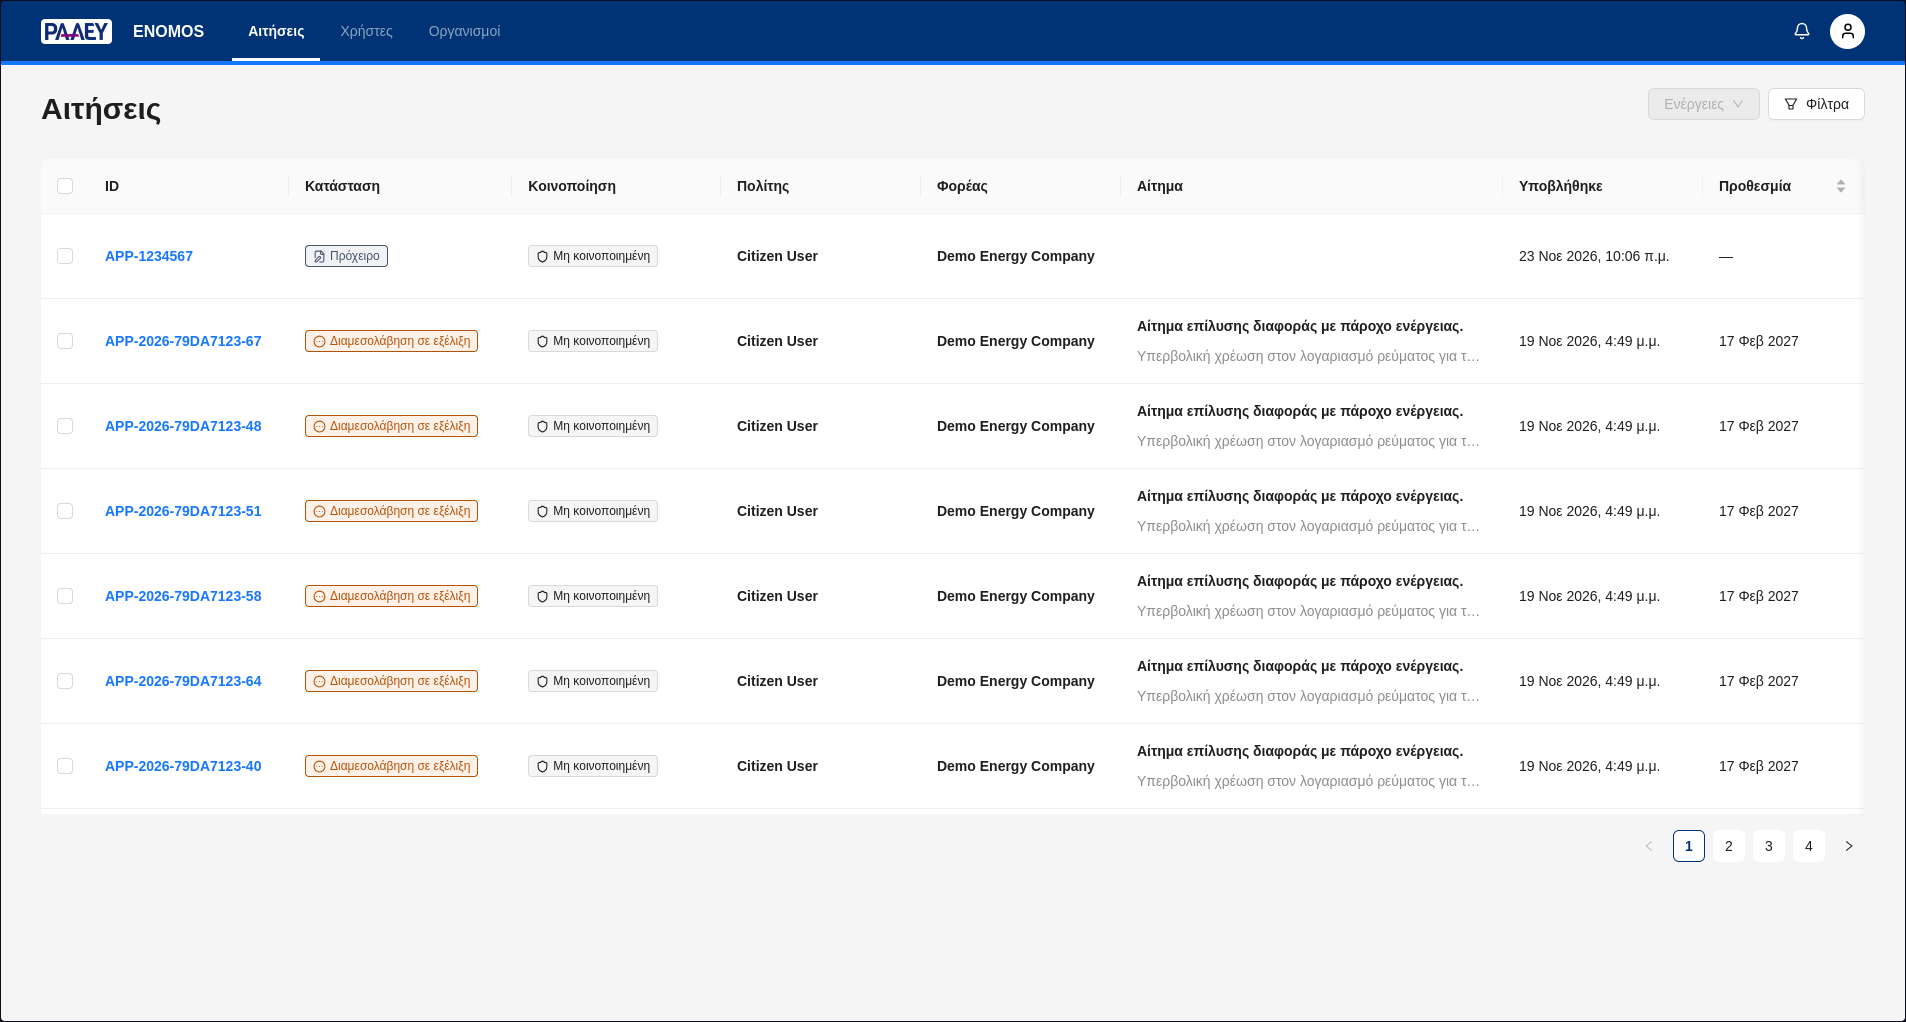
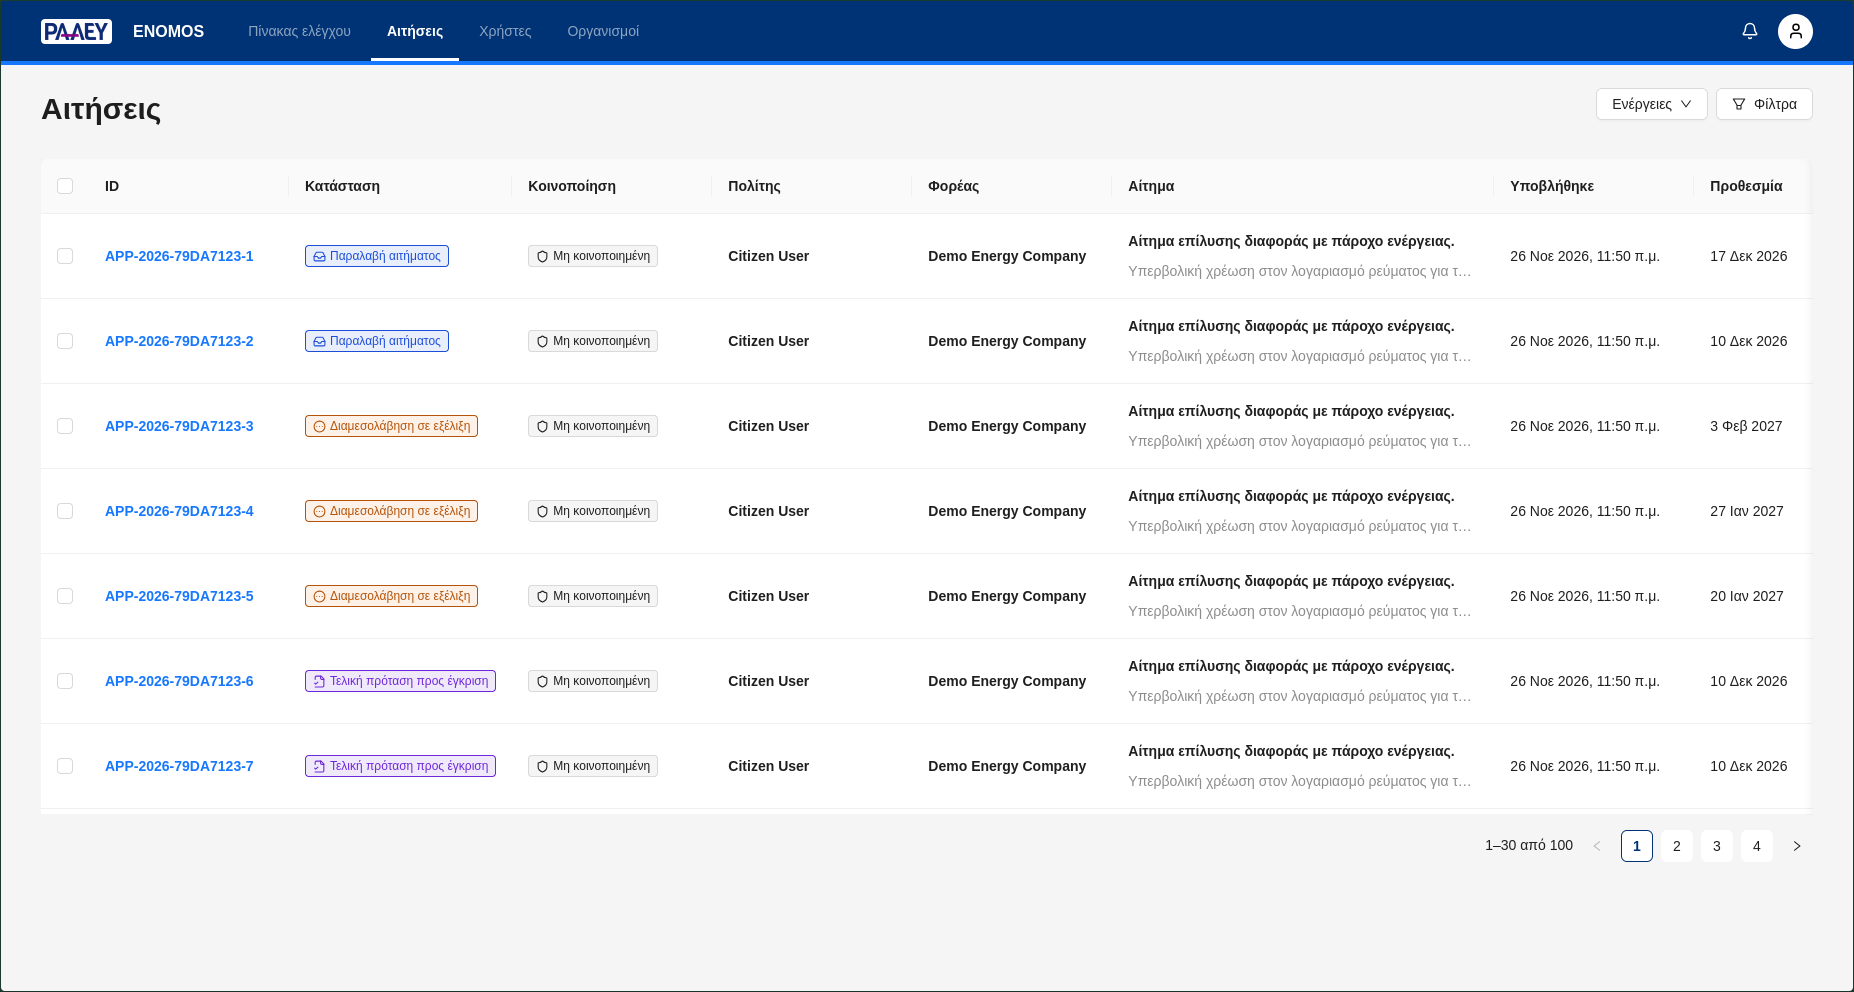
Update for v1.5.1

diff --git a/docs/applications.md b/docs/applications.md
@@ -28,13 +28,15 @@
 | **Προθεσμία** | Η τρέχουσα [προθεσμία](#deadlines) της αίτησης. Οι εκπρόθεσμες αιτήσεις εμφανίζονται με **κόκκινο**. |
 | **Τελευταία ενημέρωση** | Η ημερομηνία της τελευταίας αλλαγής στην αίτηση. |
 
+Κάτω από τον πίνακα εμφανίζεται το **πλήθος** των αιτήσεων που ταιριάζουν στα [φίλτρα](#filters) (π.χ. **1–30 από 85**).
+
 ![Λίστα αιτήσεων](assets/images/applications/applications-list.png)
 
 !!! tip
 
     Πατήστε την επικεφαλίδα της στήλης **Προθεσμία** για να ταξινομήσετε τις αιτήσεις με βάση την προθεσμία τους.
 
-## Φίλτρα
+## Φίλτρα { #filters }
 
 Οι επιλογές φίλτρων βρίσκονται πάνω δεξιά από τον πίνακα. Μπορείτε να φιλτράρετε τις αιτήσεις με βάση:
 
@@ -49,13 +51,15 @@
 
 Μπορείτε να εφαρμόσετε μια ενέργεια σε πολλές αιτήσεις μαζί:
 
-1. Επιλέξτε τις αιτήσεις από το **κουτάκι** αριστερά κάθε γραμμής του [πίνακα αιτήσεων](#list).
+1. Επιλέξτε τις αιτήσεις από το **κουτάκι** αριστερά κάθε γραμμής του [πίνακα αιτήσεων](#list). Η **Εξαγωγή csv όλων των αποτελεσμάτων** δεν χρειάζεται επιλογή.
 2. Πατήστε το κουμπί **Ενέργειες** πάνω δεξιά από τον πίνακα.
 3. Επιλέξτε μία από τις παρακάτω ενέργειες και επιβεβαιώστε:
 
 | Ενέργεια | Περιγραφή |
 |----------|-----------|
 | **Εξαγωγή** | [Εξάγει](#export) τις επιλεγμένες αιτήσεις. |
+| **Εξαγωγή csv** | [Εξάγει σε CSV](#export-csv) τις επιλεγμένες αιτήσεις. |
+| **Εξαγωγή csv όλων των αποτελεσμάτων** | [Εξάγει σε CSV](#export-csv) **όλες** τις αιτήσεις που ταιριάζουν στα [φίλτρα](#filters), σε όλες τις σελίδες του πίνακα. |
 | **Κοινοποίηση στον φορέα** | Διαμοιράζει με τον φορέα τους τις επιλεγμένες αιτήσεις που δεν είναι ήδη κοινοποιημένες. |
 | **Διακοπή κοινοποίησης** | Σταματά τον διαμοιρασμό των επιλεγμένων αιτήσεων που είναι κοινοποιημένες. |
 | **Απόρριψη** | Απορρίπτει τις επιλεγμένες αιτήσεις που βρίσκονται σε εξέλιξη. Οι αιτήσεις περνούν σε **Απόρριψη αιτήματος**. |
@@ -258,6 +262,24 @@
 !!! warning
 
     Ο σύνδεσμος λήψης λειτουργεί **μία φορά** και λήγει σε **24 ώρες**. Μπορείτε να εξαγάγετε έως **100 αιτήσεις** τη φορά.
+
+#### Εξαγωγή σε CSV { #export-csv }
+
+Από τις [μαζικές ενέργειες](#bulk-actions) μπορείτε να εξαγάγετε τις αιτήσεις σε ένα υπολογιστικό φύλλο **CSV**, με μία γραμμή για κάθε αίτηση. Το αρχείο ανοίγει απευθείας στο Excel και περιέχει τις στήλες:
+
+- **Α/Α**
+- **Αριθ. αιτήματος (MyRAE)**
+- **Παραλήπτης**: ο φορέας της αίτησης.
+- **Αίτημα καταναλωτή** και **Λόγοι**
+- **Κατάσταση**
+- **Υποβολή**, **Παραλαβή** και **Προθεσμία**
+- **Νομικός συνεργάτης**
+
+Όπως και η [εξαγωγή](#export), γίνεται στο παρασκήνιο: όταν ολοκληρωθεί, λαμβάνετε [ειδοποίηση](settings.md#notifications) και **email** με τον σύνδεσμο λήψης, που λειτουργεί **μία φορά** και λήγει σε **24 ώρες**.
+
+!!! tip
+
+    Η **Εξαγωγή csv όλων των αποτελεσμάτων** δεν έχει όριο αιτήσεων: εξάγει όλες τις αιτήσεις των [φίλτρων](#filters) σας, ακόμη κι αν ο πίνακας τις εμφανίζει σε πολλές σελίδες.
 
 ### Συνομιλίες
 

diff --git a/docs/dashboard.md b/docs/dashboard.md
@@ -1,0 +1,50 @@
+# Πίνακας ελέγχου
+
+Ο **Πίνακας ελέγχου** συγκεντρώνει τα στατιστικά των αιτήσεων διαμεσολάβησης των τομέων σας. Είναι η πρώτη σελίδα που βλέπετε μετά τη [σύνδεση](access.md).
+
+!!! info
+
+    Η σελίδα είναι διαθέσιμη μόνο στους **διαχειριστές**. Τα στατιστικά αφορούν τις αιτήσεις των τομέων σας, τις ίδιες που βλέπετε στη [λίστα αιτήσεων](applications.md#list).
+
+![Πίνακας ελέγχου](assets/images/dashboard/dashboard.png)
+
+## Αιτήσεις ανά κατάσταση { #statistics }
+
+Στο πάνω μέρος της σελίδας, η καρτέλα **Αιτήσεις** εμφανίζει πόσες αιτήσεις βρίσκονται σε κάθε [κατάσταση](applications.md#statuses).
+
+## Φίλτρα { #filters }
+
+Το κουμπί **Φίλτρα** βρίσκεται πάνω δεξιά. Επιλέξτε ένα **Εύρος ημερομηνιών** για να δείτε τα στατιστικά μόνο για τις αιτήσεις που **υποβλήθηκαν** μέσα σε αυτό. Το φίλτρο εφαρμόζεται σε όλα τα στατιστικά και τα γραφήματα της σελίδας.
+
+Για να δείτε ξανά όλες τις αιτήσεις, πατήστε **Καθαρισμός φίλτρων**.
+
+![Φίλτρα πίνακα ελέγχου](assets/images/dashboard/dashboard-filters.png)
+
+## Γραφήματα { #charts }
+
+Κάτω από τα στατιστικά βρίσκονται τα παρακάτω γραφήματα:
+
+| Γράφημα | Τι δείχνει |
+|---------|------------|
+| **Αιτήσεις ανά κατάσταση** | Το πλήθος των αιτήσεων σε κάθε [κατάσταση](applications.md#statuses). |
+| **Ανά διάρκεια αιτημάτων σε εκκρεμότητα** | Τις αιτήσεις που βρίσκονται σε εξέλιξη (**Παραλαβή αιτήματος**, **Διαμεσολάβηση σε εξέλιξη**, **Τελική πρόταση προς έγκριση**), ανάλογα με το πόσος καιρός πέρασε από την **παραλαβή** τους: **έως 2 εβδομάδες**, **από 3 έως 4 εβδομάδες** ή **περισσότερο από ένα μήνα**. |
+| **Αιτήσεις ανά οργανισμό** | Τους **10 οργανισμούς** με τις περισσότερες αιτήσεις, με χρώμα για κάθε κατάσταση. Οι υπόλοιποι οργανισμοί συγκεντρώνονται στη γκρι μπάρα **Λοιποί**, με το πλήθος τους σε παρένθεση. |
+
+!!! tip
+
+    Περάστε τον δείκτη του ποντικιού πάνω από μια μπάρα ή ένα τμήμα για να δείτε το ακριβές πλήθος.
+
+![Γράφημα αιτήσεων ανά οργανισμό](assets/images/dashboard/dashboard-chart-organisations.png)
+
+## Εξαγωγή γραφήματος { #export }
+
+Κάθε γράφημα έχει πάνω δεξιά το κουμπί **Ενέργειες**, με τις παρακάτω επιλογές:
+
+| Ενέργεια | Περιγραφή |
+|----------|-----------|
+| **Εξαγωγή εικόνας** | Κατεβάζει το γράφημα ως εικόνα **PNG**. |
+| **Εξαγωγή csv** | Κατεβάζει τα δεδομένα του γραφήματος ως υπολογιστικό φύλλο **CSV**. Στο γράφημα ανά οργανισμό, το αρχείο περιέχει **όλους** τους οργανισμούς, με μία στήλη για κάθε κατάσταση. |
+
+Η λήψη γίνεται αμέσως και περιλαμβάνει μόνο τις αιτήσεις των [φίλτρων](#filters) που έχετε επιλέξει.
+
+![Ενέργειες γραφήματος](assets/images/dashboard/dashboard-chart-actions.png)

diff --git a/docs/index.md b/docs/index.md
@@ -11,6 +11,7 @@
 Στο εγχειρίδιο περιγράφονται τα παρακάτω:
 
 - **[Πρόσβαση](access.md)**: σύνδεση στην πλατφόρμα και επαναφορά κωδικού.
+- **[Πίνακας ελέγχου](dashboard.md)**: στατιστικά και γραφήματα των αιτήσεων (μόνο για διαχειριστές).
 - **[Αιτήσεις](applications.md)**: λίστα και καταστάσεις αιτήσεων, ορισμός νομικού συνεργάτη και συνομιλία με τον Ενόμο.
 - **[Χρήστες](users.md)**: προσθήκη, επεξεργασία και απενεργοποίηση των χρηστών του φορέα (μόνο για διαχειριστές οργανισμού).
 - **[Ρυθμίσεις](settings.md)**: μενού χρήστη, γλώσσα και ειδοποιήσεις.

diff --git a/docs/organisations.md b/docs/organisations.md
@@ -15,6 +15,8 @@
 | **Οργανισμός** | Η επωνυμία του οργανισμού. |
 | **Τομείς** | Οι [τομείς](users.md#domains) στους οποίους δραστηριοποιείται ο οργανισμός (**Ύδατα**, **Απόβλητα**, **Ενέργεια**). |
 
+Κάτω από τον πίνακα εμφανίζεται το **πλήθος** των οργανισμών που ταιριάζουν στα φίλτρα (π.χ. **1–30 από 85**).
+
 ![Λίστα οργανισμών](assets/images/organisations/organisations-list.png)
 
 ## Φίλτρα

diff --git a/docs/holidays.md b/docs/holidays.md
@@ -18,6 +18,8 @@
 | **Κατάσταση** | Αν η αργία είναι **Ενεργή** ή **Ανενεργή**. Μια ανενεργή αργία μετράει ως εργάσιμη ημέρα. |
 | **Ενέργειες** | [Επεξεργασία](#edit) και [διαγραφή](#delete) της αργίας. |
 
+Κάτω από τον πίνακα εμφανίζεται το **πλήθος** των αργιών που ταιριάζουν στα φίλτρα (π.χ. **1–30 από 85**).
+
 ![Λίστα αργιών](assets/images/holidays/holidays-list.png)
 
 ## Φίλτρα

diff --git a/docs/connections.md b/docs/connections.md
@@ -17,6 +17,8 @@
 | **Δημιουργήθηκε** | Η ημερομηνία δημιουργίας της διασύνδεσης. |
 | **Ενέργειες** | Οι διαθέσιμες ενέργειες για τη διασύνδεση (βλ. [Ενέργειες](#actions)). |
 
+Κάτω από τον πίνακα εμφανίζεται το **πλήθος** των διασυνδέσεων που ταιριάζουν στα φίλτρα (π.χ. **1–30 από 85**).
+
 ![Λίστα διασυνδέσεων](assets/images/connections/connections-list.png)
 
 !!! tip

diff --git a/docs/users.md b/docs/users.md
@@ -26,6 +26,8 @@
 | **Δημιουργήθηκε** | Η ημερομηνία δημιουργίας του χρήστη. |
 | **Ενέργειες** | Οι διαθέσιμες ενέργειες για τον χρήστη (βλ. [Επεξεργασία χρήστη](#edit)). |
 
+Κάτω από τον πίνακα εμφανίζεται το **πλήθος** των χρηστών που ταιριάζουν στα φίλτρα (π.χ. **1–30 από 85**).
+
 ![Λίστα χρηστών](assets/images/users/users-list.png)
 
 ## Φίλτρα

diff --git a/docs/access.md b/docs/access.md
@@ -21,6 +21,8 @@
 
 ![Φόρμα σύνδεσης](assets/images/access/access-login-form.png)
 
+Μετά τη σύνδεση, οι **διαχειριστές** μεταφέρονται στον [Πίνακα ελέγχου](dashboard.md).
+
 ## Ξέχασα τον κωδικό μου { #forgot-password }
 
 Αν δεν θυμάστε τον κωδικό σας:
